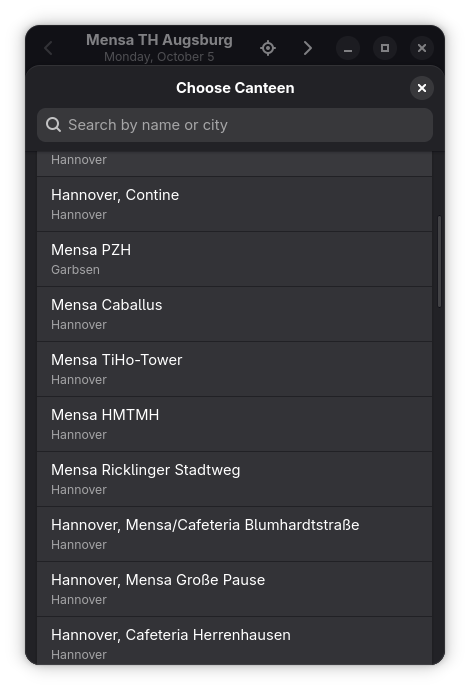
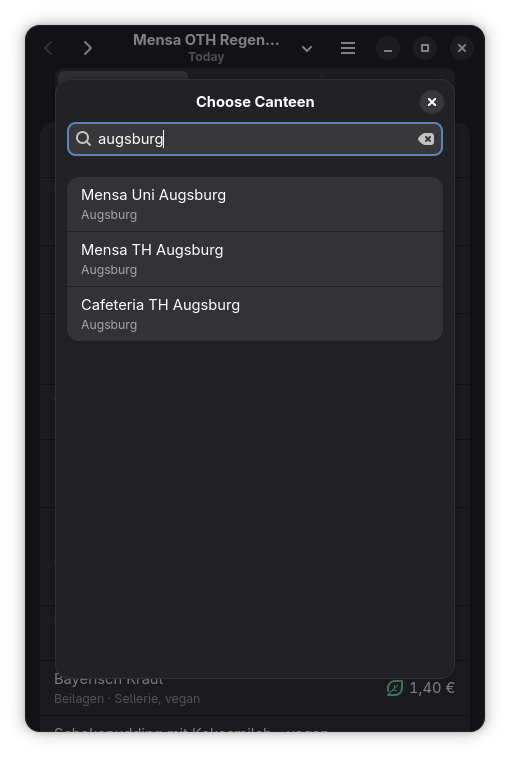
Update README and screenshots

Changed region(s): [[0.0298, 0.0304, 0.9532, 0.9739], [0.2681, 0.7304, 0.7745, 0.7913], [0.2383, 0.5174, 0.3872, 0.5478]]

diff --git a/README.md b/README.md
@@ -18,6 +18,14 @@ Lunch Tray is a native GNOME app for the menus of all canteens listed on [OpenMe
 - Prices for students, employees and guests
 - Remembers your canteen and price group
 - Shows the last saved menu when you are offline
+- Allergen and dietary notes, with icons for vegan and vegetarian meals (where the canteen provides them)
+
+## Keyboard Shortcuts
+
+| Shortcut | Action |
+|---|---|
+| <kbd>Alt</kbd>+<kbd>←</kbd> / <kbd>Alt</kbd>+<kbd>→</kbd> | Previous / next day |
+| <kbd>Ctrl</kbd>+<kbd>Q</kbd> | Quit |
 
 ## Building
 
@@ -38,7 +46,7 @@ This builds a release binary and installs it together with its desktop file and 
 
 ## Status
 
-Early development, not packaged yet. Planned next: allergen and dietary notes, a nicer layout, and a Flatpak.
+Early development, not packaged yet. Planned next: a filter for vegetarian meals, a nicer layout, and a Flatpak.
 
 ## Data
 
@@ -46,4 +54,4 @@ Menus come from the [OpenMensa API](https://docs.openmensa.org/api/v2/). Lunch T
 
 ## License
 
-Lunch Tray is licensed under the GPL-3.0-or-later, see [LICENSE](LICENSE). The symbolic icon is `cutlery-symbolic` from the GNOME Icon Development Kit (CC0).
+Lunch Tray is licensed under the GPL-3.0-or-later, see [LICENSE](LICENSE). The symbolic icons (cutlery, leaf and egg) are from the GNOME Icon Development Kit by Jakub Steiner (CC0).
